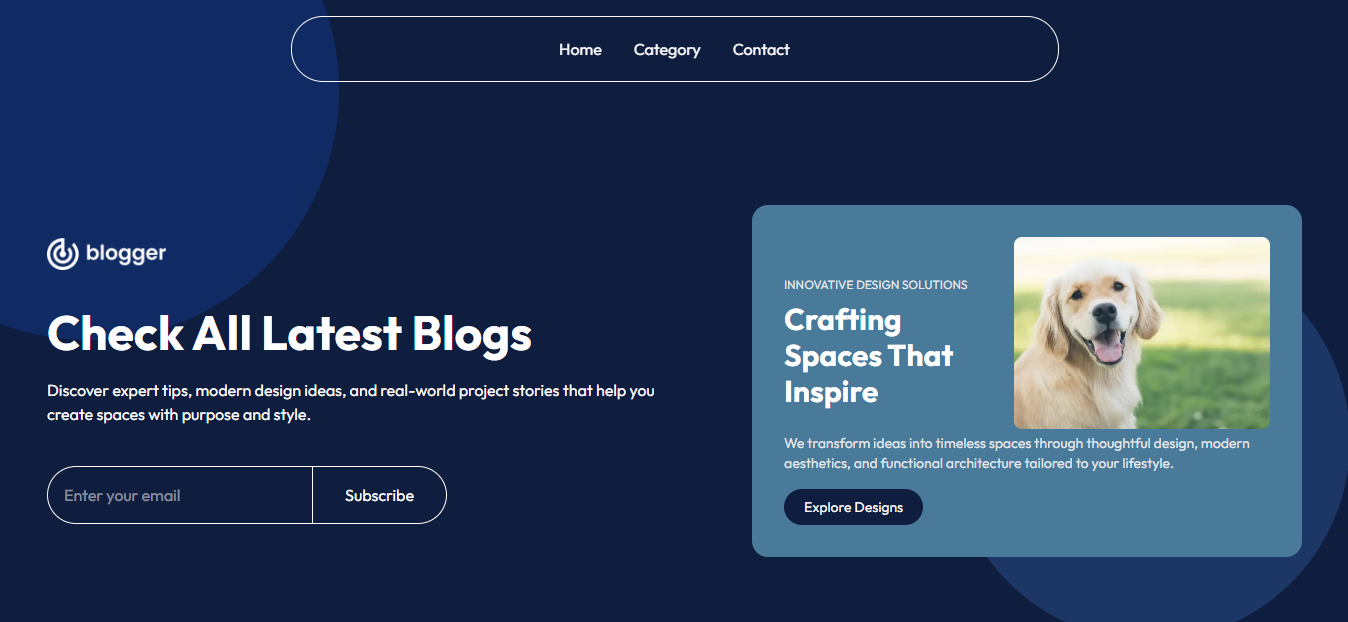
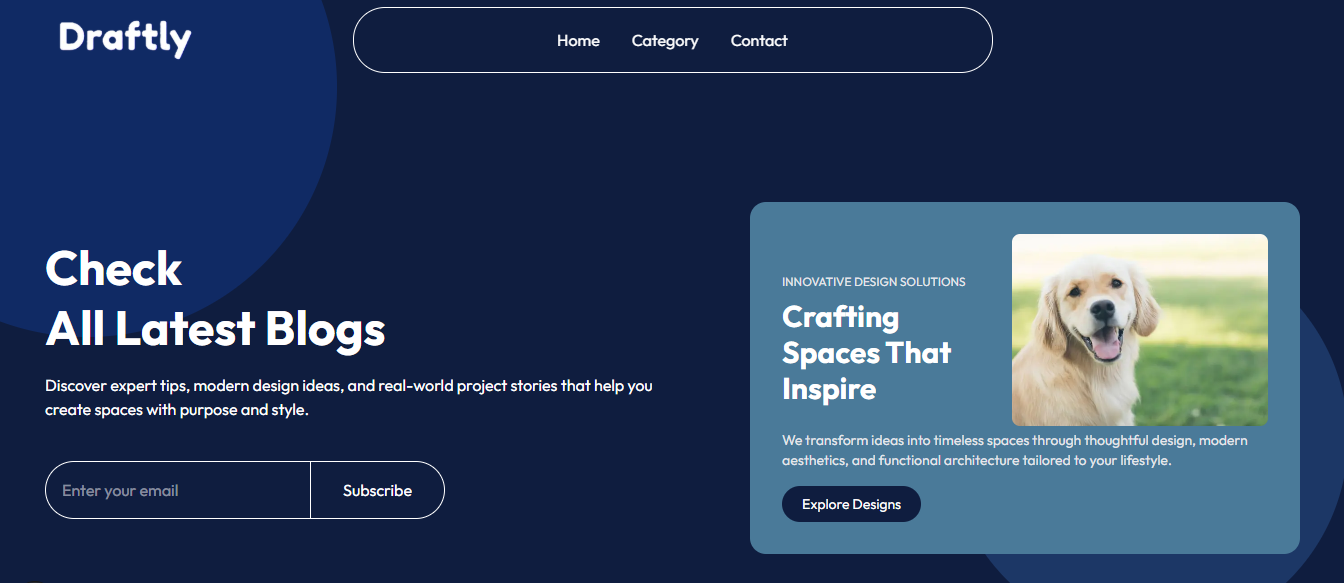
updated project section

diff --git a/src/Components/Projects/Projects.jsx b/src/Components/Projects/Projects.jsx
@@ -3,7 +3,15 @@ import React from "react";
 import { motion } from "framer-motion";
 import bannerImg from "../../assets/photo-C8q0KQHG.webp";
 import portfolioImg from "../../assets/portfolio.png";
-import blogImg from '../../assets/blog.png';
+import blogImg from "../../assets/blog.png";
+import { FaReact } from "react-icons/fa";
+import {
+  SiNextdotjs,
+  SiTailwindcss,
+  SiTypescript,
+  SiMongodb,
+  SiFramer,
+} from "react-icons/si";
 
 const statusDotColor = {
   building: "bg-yellow-400",
@@ -14,26 +22,77 @@ const Projects = () => {
   const projects = [
     {
       title: "Personal Portfolio",
-      description: "A responsive personal portfolio website built using React and Tailwind CSS to showcase projects, skills, and experience with a clean and modern UI.",
-      tech: ["React", "Tailwind CSS", "Framer Motion"],
+      description:
+        "A responsive personal portfolio website built using React and Tailwind CSS to showcase projects, skills, and experience with a clean and modern UI.",
+      tech: [
+        {
+          name: "React",
+          icon: <FaReact className="inline mr-1" />,
+          color: "bg-blue-100 text-blue-700",
+        },
+        {
+          name: "Tailwind CSS",
+          icon: <SiTailwindcss className="inline mr-1" />,
+          color: "bg-teal-100 text-teal-700",
+        },
+        {
+          name: "Framer Motion",
+          icon: <SiFramer className="inline mr-1" />,
+          color: "bg-pink-100 text-pink-700",
+        },
+      ],
       demoLink: "https://sapna-kushwah-portfolio.vercel.app",
       githubLink: "https://github.com/sapnakushwah011/Sapna-Kushwah-Portfolio",
       status: "Building",
       bannerImg: portfolioImg,
     },
     {
-      title: "Blogging Platform",
-      description: "A full-stack blogging platform built with Next.js, featuring real-time collaboration and markdown support for content creation.",
-      tech: ["Next.js", "TypeScript", "MongoDB"],
+      title: "Draftly (Blogging Platform)",
+      description:
+        "A full-stack blogging platform built with Next.js, featuring real-time collaboration and markdown support for content creation.",
+      tech: [
+        {
+          name: "Next.js",
+          icon: <SiNextdotjs className="inline mr-1" />,
+          color: "bg-gray-100 text-gray-800",
+        },
+        {
+          name: "TypeScript",
+          icon: <SiTypescript className="inline mr-1" />,
+          color: "bg-blue-100 text-blue-800",
+        },
+        {
+          name: "MongoDB",
+          icon: <SiMongodb className="inline mr-1" />,
+          color: "bg-green-100 text-green-800",
+        },
+      ],
       status: "Building",
       demoLink: "https://blog-app-rho-indol.vercel.app",
       githubLink: "https://github.com/sapnakushwah011/blog-app",
       bannerImg: blogImg,
-    },    
+    },
     {
       title: "Resume Builder",
-      description: "A web-based Resume Builder application that allows users to create, edit, and download professional resumes with customizable templates and real-time preview.",
-      tech: ["React", "PDF Generation", "Local Storage"],
+      description:
+        "A web-based Resume Builder application that allows users to create, edit, and download professional resumes with customizable templates and real-time preview.",
+      tech: [
+        {
+          name: "React",
+          icon: <FaReact className="inline mr-1" />,
+          color: "bg-blue-100 text-blue-700",
+        },
+        {
+          name: "PDF Generation",
+          icon: null,
+          color: "bg-gray-100 text-gray-700",
+        },
+        {
+          name: "Local Storage",
+          icon: null,
+          color: "bg-gray-100 text-gray-700",
+        },
+      ],
       demoLink: "https://sapna-kushwah-portfolio.vercel.app",
       githubLink: "https://github.com/sapnakushwah011/Resume-builder",
       status: "Completed",
@@ -41,7 +100,10 @@ const Projects = () => {
   ];
 
   return (
-    <section id="projects" className="py-16 sm:py-24 lg:py-32 px-4 sm:px-6 bg-white dark:bg-slate-950">
+    <section
+      id="projects"
+      className="py-16 sm:py-24 lg:py-32 px-4 sm:px-6 bg-white dark:bg-slate-950"
+    >
       <div className="max-w-7xl mx-auto">
         <motion.div
           initial={{ opacity: 0, y: 30 }}
@@ -75,31 +137,28 @@ const Projects = () => {
                   rel="noopener noreferrer"
                   className="w-full h-full object-cover"
                 >
-                  <img 
-                    className="w-full h-full object-cover" 
-                    src={project.bannerImg ? project.bannerImg : bannerImg} 
-                    alt={project.title} 
+                  <img
+                    className="w-full h-full object-cover"
+                    src={project.bannerImg ? project.bannerImg : bannerImg}
+                    alt={project.title}
                   />
                 </a>
               </div>
 
               <div className="p-5 sm:p-6">
                 {project.status && (
-<span className="inline-flex items-center gap-2 px-3 py-1 text-xs font-medium bg-indigo-100 text-indigo-700 dark:bg-slate-800 dark:text-white rounded-full mb-3">
-  <span
-    className={`w-2 h-2 rounded-full ${
-      statusDotColor[project.status?.toLowerCase()] || "bg-gray-400"
-    }`}
-  ></span>
-  {project.status}
-</span>
-
-                  // <span className="inline-block px-3 py-1 text-xs font-medium bg-indigo-100 text-indigo-700 dark:bg-slate-800 dark:text-white rounded-full mb-3">
-                  //   {project.status}
-                  // </span>
+                  <span className="inline-flex items-center gap-2 px-3 py-1 text-xs font-medium bg-indigo-100 text-indigo-700 dark:bg-slate-800 dark:text-white rounded-full mb-3">
+                    <span
+                      className={`w-2 h-2 rounded-full ${
+                        statusDotColor[project.status?.toLowerCase()] ||
+                        "bg-gray-400"
+                      }`}
+                    ></span>
+                    {project.status}
+                  </span>
                 )}
                 <h3 className="text-xl sm:text-2xl font-semibold text-slate-900 dark:text-white mb-2 sm:mb-3">
-                  <a                   
+                  <a
                     href={project.demoLink}
                     target="_blank"
                     rel="noopener noreferrer"
@@ -107,12 +166,18 @@ const Projects = () => {
                     {project.title}
                   </a>
                 </h3>
-                <p className="text-slate-600 dark:text-slate-400 text-sm leading-relaxed mb-3 sm:mb-4">{project.description}</p>
-                
+                <p className="text-slate-600 dark:text-slate-400 text-sm leading-relaxed mb-3 sm:mb-4">
+                  {project.description}
+                </p>
+
                 <div className="flex flex-wrap gap-2 mb-4 sm:mb-6">
                   {project.tech.map((tech, j) => (
-                    <span key={j} className="px-2 sm:px-3 py-1 bg-white text-slate-600 dark:bg-slate-800 dark:text-white rounded-full text-xs">
-                      {tech}
+                    <span
+                      key={j}
+                      className={`px-2 sm:px-3 py-1 rounded-full text-xs flex items-center ${tech.color}`}
+                    >
+                      {tech.icon}
+                      {tech.name}
                     </span>
                   ))}
                 </div>
